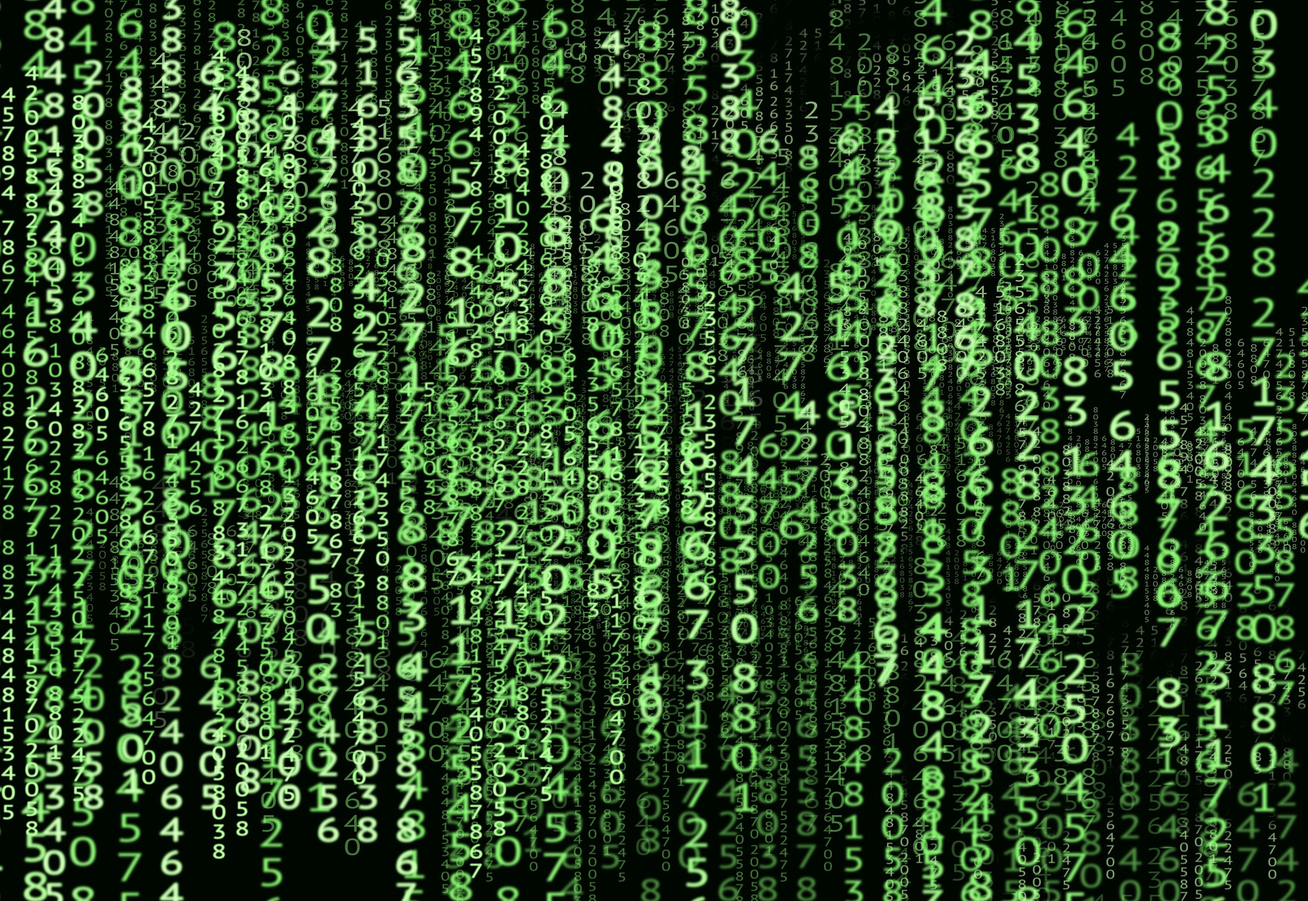
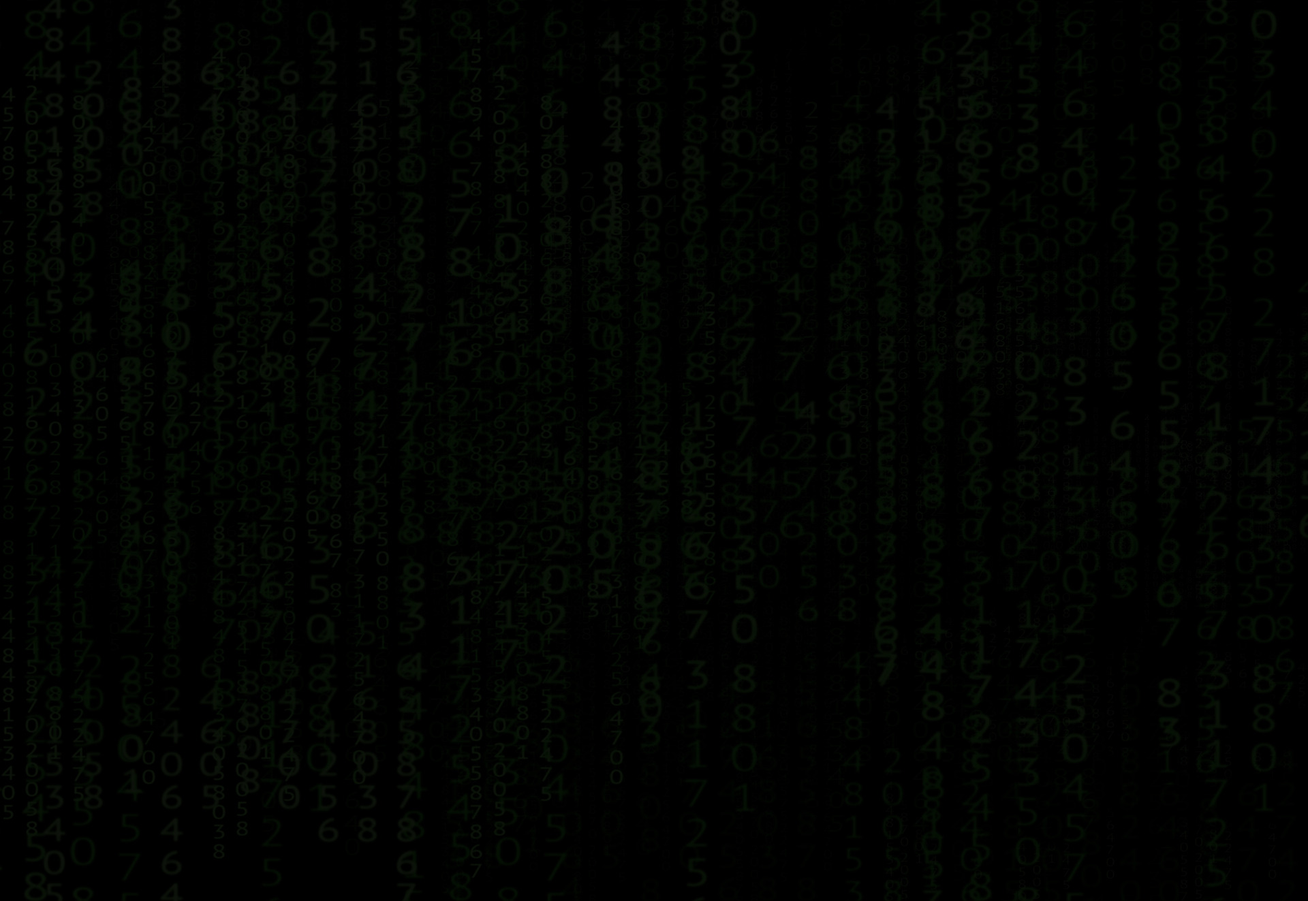
background, photos

diff --git a/src/components/Article.js b/src/components/Article.js
@@ -1,6 +1,35 @@
 import { React, useState, useEffect } from 'react'
 import { FontAwesomeIcon } from '@fortawesome/react-fontawesome'
 import { faUserEdit, faCalendarAlt } from '@fortawesome/free-solid-svg-icons'
+import img01  from '../img/01.jpg'
+import img02 from '../img/02.jpg'
+import img03 from '../img/03.jpg'
+import img04 from '../img/04.jpg'
+import img05 from '../img/05.jpg'
+import img06 from '../img/06.jpg'
+import img07 from '../img/07.jpg'
+import img08 from '../img/08.jpg'
+import img09 from '../img/09.jpg'
+import img10 from '../img/10.jpg'
+import img11 from '../img/11.jpg'
+import img12 from '../img/12.jpg'
+import img13 from '../img/13.jpg'
+import img14 from '../img/14.jpg'
+import img15 from '../img/15.jpg'
+import img16 from '../img/16.jpg'
+import img17 from '../img/17.jpg'
+import img18 from '../img/18.jpg'
+import img19 from '../img/19.jpg'
+import img20 from '../img/20.jpg'
+import img21 from '../img/21.jpg'
+import img22 from '../img/22.jpg'
+import img23 from '../img/23.jpg'
+import img24 from '../img/24.jpg'
+import img25 from '../img/25.jpg'
+
+const images  = [img01, img02, img03, img04, img05, img06, img07, img08, img09, img10,
+     img11, img12, img13, img14, img15, img16, img17, img18, img19, img20,
+     img21, img22, img23, img24, img25];
 
 const Article = props => {
 
@@ -29,7 +58,7 @@ const Article = props => {
                 className="article"
             >
                 <div className="article-bg"
-                    style={{ backgroundImage: `url("https://picsum.photos/id/${Math.floor(Math.random() * 60)}/700/400")` }}
+                    style={{ backgroundImage:  'url(' + images[Math.floor(Math.random() * 25)] + ')'}}
                 >
                     <span className="score">score: {props.score}</span>
 

diff --git a/src/styles/Article.sass b/src/styles/Article.sass
@@ -5,6 +5,7 @@
     position: relative
     .article-bg
         height: 350px
+        background-size: cover
 
 .article
     flex: 0 0 33%

diff --git a/src/styles/Index.sass b/src/styles/Index.sass
@@ -15,6 +15,4 @@ body
   background-attachment: fixed
   margin: 0
 
-#root
-  background: rgba(0,0,0,0.92)
 
